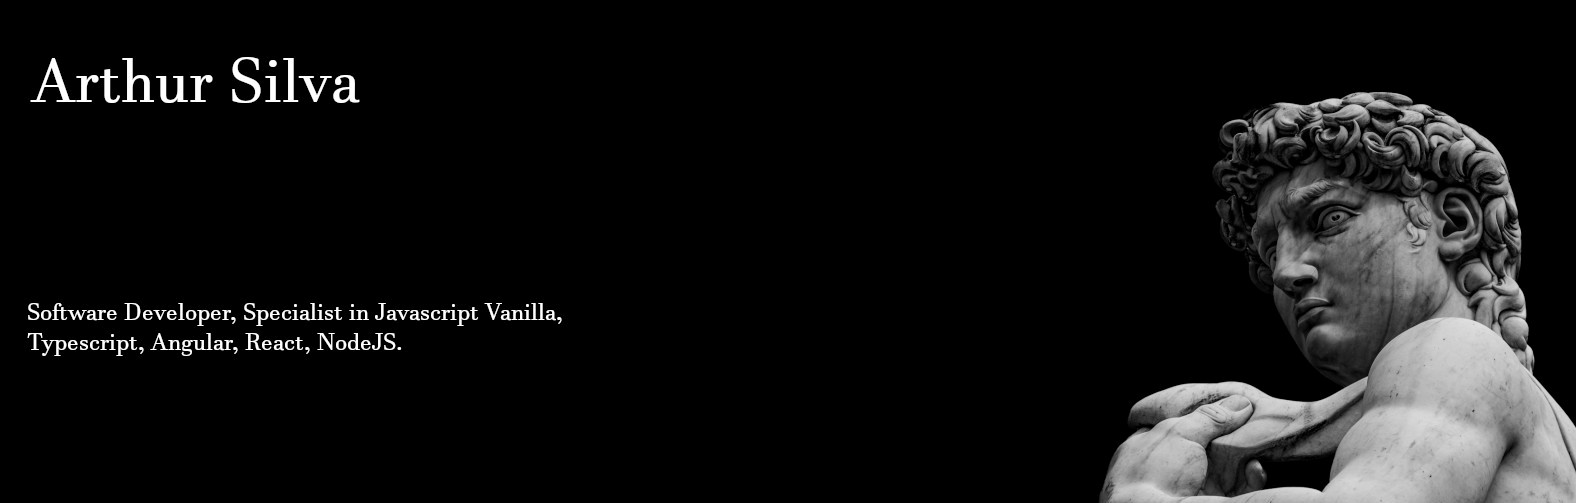
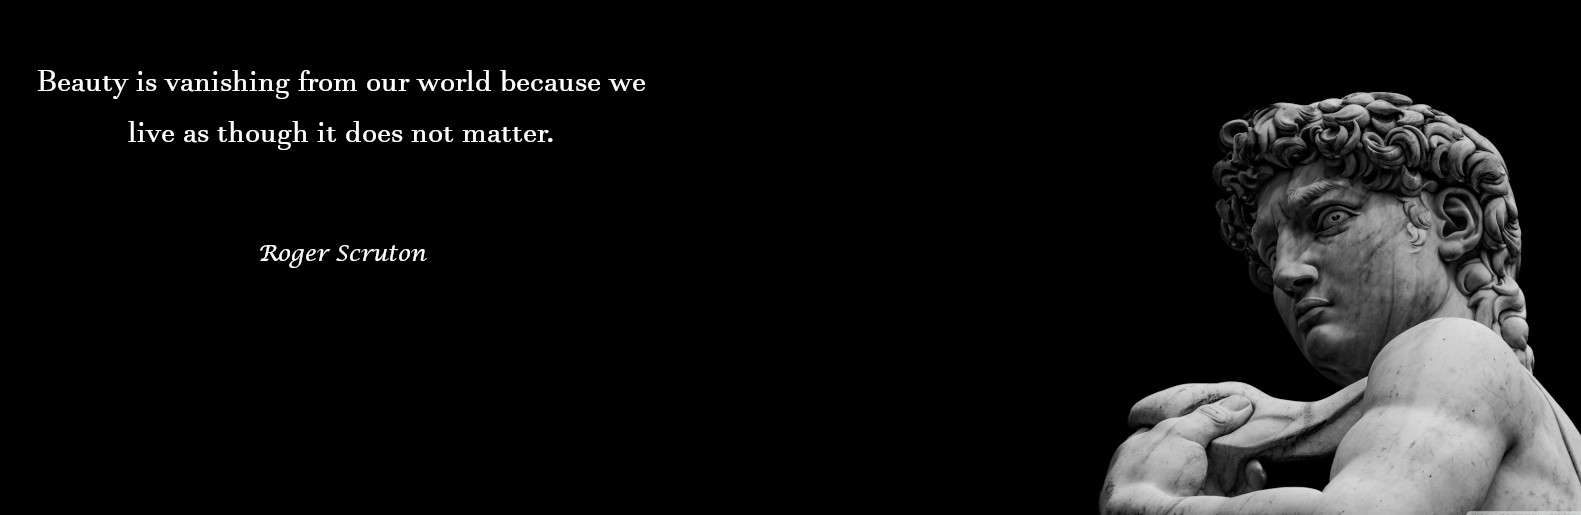
feat: change the image and description

diff --git a/README.md b/README.md
@@ -1,6 +1,6 @@
 <img src="https://raw.githubusercontent.com/Artrogeno/Artrogeno/master/banner-header-cropped.jpg" alt="banner that says Arthur SIlva - software Developer, Specialist in Javascript Vanilla, Typescript, Angular, React, NodeJS">
 
-# 🐒 ⚡
+# Arthur Silva
 
 I’m a software developer who is passionate about build lots of demos and open-source projects.
 Some tecnologies I enjoy working with include Javascript Vanilla, Typescript, Angular, React, NodeJS, GraphQL and more ⚡.
